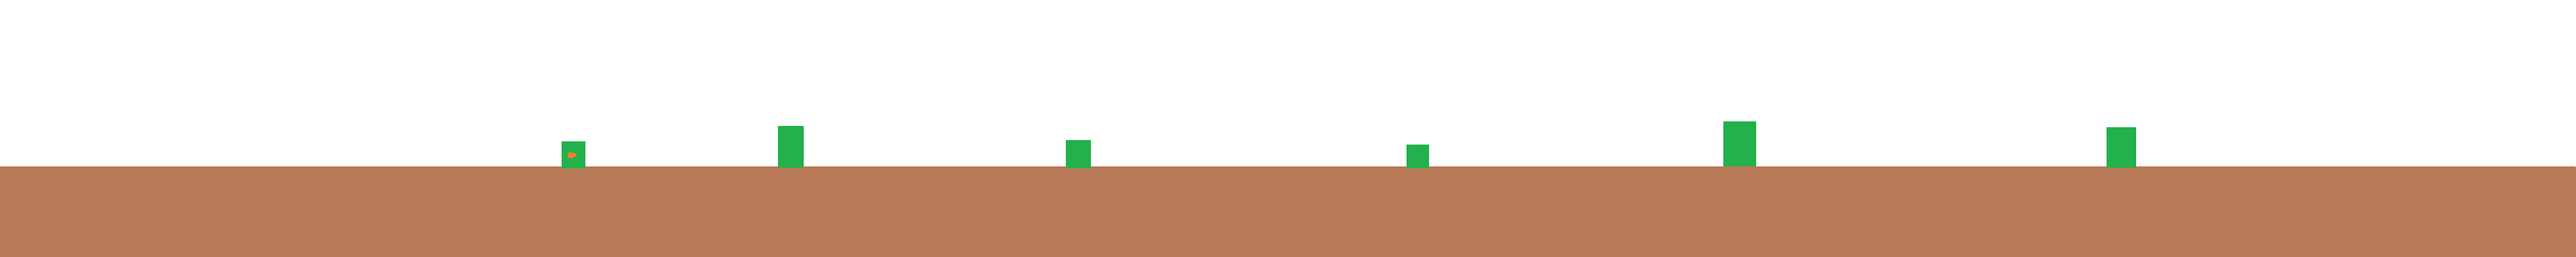
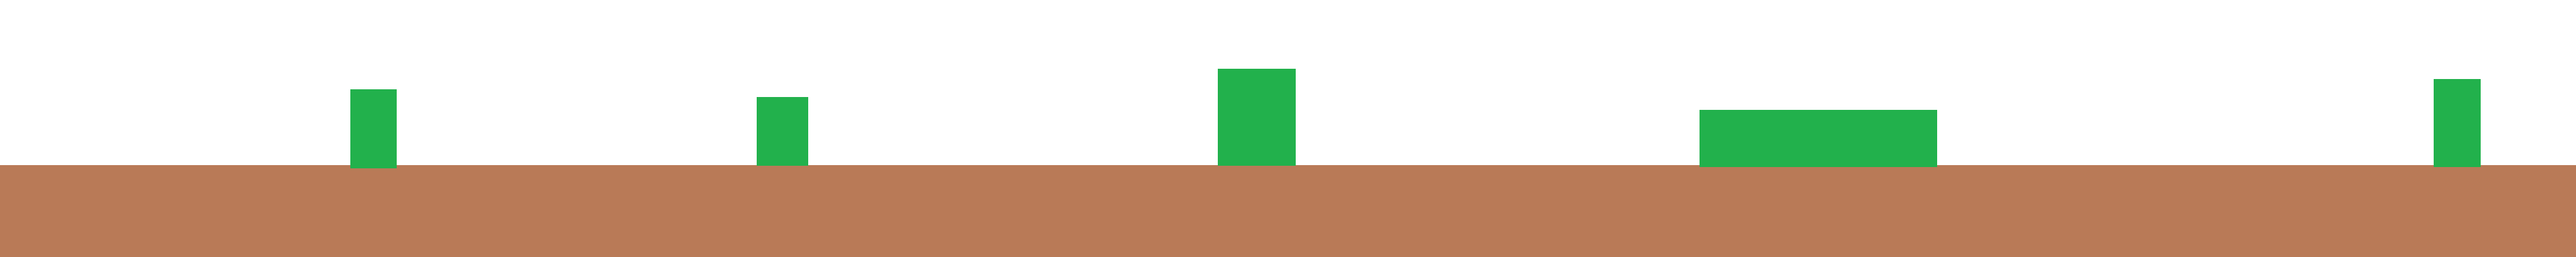
Add files via upload

Changed region(s): [[0.0, 0.27, 1.0, 0.66]]

diff --git a/DAVID.py b/DAVID.py
@@ -10,9 +10,21 @@ background3 = pygame.image.load('bg3.png')
 background4 = pygame.image.load('bg4.png')
 background5 = pygame.image.load('bg5.png')
 backgroundx = pygame.image.load('bgx.png')
+e0= pygame.image.load('energy_0.png')
+e1= pygame.image.load('energy_1.png')
+e2= pygame.image.load('energy_2.png')
+e3= pygame.image.load('energy_3.png')
+e4= pygame.image.load('energy_4.png')
+e5= pygame.image.load('energy_5.png')
+e6= pygame.image.load('energy_6.png')
+e7= pygame.image.load('energy_7.png')
+e8= pygame.image.load('energy_8.png')
+e9= pygame.image.load('energy_9.png')
+e10= pygame.image.load('energy_10.png')
 sky1 = pygame.image.load('sk1.png')
 sky2 = pygame.image.load('sk2.png')
 gameover = pygame.image.load('gameover.png')
+sheld= pygame.image.load('sheld.png')
 
 
 W, H = 600, 400
@@ -28,9 +40,15 @@ screen = pygame.display.set_mode((W,H))
 
 skset=[sky1,sky2]
 bgset=[background1,background2,background3,background4,background5]
+#bgset=[background1,background1,background1,background1,background1]
 d = [[872,220,909],[1207,196,1248],[1655,218,1693],[2184,225,2218],[2676,189,2727],[3271,198,3317]]
-dset=[d,d,d,d,d]
-
+d1 = [[872,220,909],[1207,196,1248],[1655,218,1693],[2184,225,2218],[2676,189,2727],[3271,198,3317]]
+d2 = [[150,175,190],[414,221,595],[982,173,1021],[1411,185,1446],[1650,227,1781],[3222,175,3276]]
+d3 = [[546,141,613],[1177,153,1252],[1983,109,2009],[2741,177,3005],[3781,125,3850]]
+d4 = [[270,151,365],[666,178,908],[1706,226,2026],[3169,117,3301]]
+dset=[d1,d2,d3,d4]
+#dset=[d1,d1,d1,d1]
+e=[e0,e1,e2,e3,e4,e5,e6,e7,e8,e9,e10]
 
 
 class David():
@@ -41,7 +59,7 @@ class David():
         self.isJump = False
         self.jumpCount = 15
 
-    def draw(self,x,op):
+    def draw(self,x,op,fly):
         myFont = pygame.font.SysFont("Times New Roman", 18)
         mytime = myFont.render(str(pygame.time.get_ticks()/1000)+'s',1,(0,0,0))
         screen.blit(mytime,(x+20,int(self.y)+20))
@@ -49,6 +67,8 @@ class David():
             screen.blit(dino1, (x,int(self.y)))
         else:
             screen.blit(dino2, (x,int(self.y)))
+        if fly:
+            screen.blit(sheld, (x-20,int(self.y)-5)) 
 
     def jump(self):
         if self.isJump:
@@ -72,17 +92,31 @@ class David():
             time.sleep(3)
             pygame.quit()
             sys.exit()
+    def  check_test(self,x,z,d,bg_x):#check hit position
+        if ( (x>=d[z][0]) and (self.y>=d[z][1]) and (x<=d[z][2])):
+            if d==d1:
+                print('bg1',z)
+            if d==d2:
+                print('bg2',z)
+            if d==d3:
+                print('bg3',z)
+            if d==d4:
+                print('bg4',z)
+            
+        
             
 image_width = 20  #if you change the image , you need to fill new image width       
 pos_x = 50
 pos_y = 259-image_width
 david = David(pos_x, pos_y)
-next_bg=random.randint(0,4)
+next_bg=random.randint(0,len(dset)-1)
 next_sk=random.randint(0,1)
 ground_speed = 5
 sky_speed = 1
 z=0
 op = 1 # op change image of dino
+energy=0
+fly=0
 while True:
     
     for event in pygame.event.get():
@@ -93,6 +127,11 @@ while True:
                 sys.exit()
             if event.key == pygame.K_SPACE:
                 david.isJump = True
+            if event.key == pygame.K_a:
+                fly=1
+        elif event.type == pygame.KEYUP:
+            if event.key == pygame.K_a:
+                fly=0
 
     clock.tick(FPS)
     pressed_keys = pygame.key.get_pressed()
@@ -101,12 +140,18 @@ while True:
     screen.blit(sky1,(sk_x,0))
     screen.blit(skset[next_sk],(sk_x+4000,0))
 
-    if(z<5 and d[z][2]<pos_x-bg_x):
+    if(z<len(d)-1 and d[z][2]<pos_x-bg_x):
         z = z+1
+    if fly and energy>250:
+        energy=energy-5;
+        
+        
+    else:
+        david.check((pos_x-bg_x),z,d,bg_x)#change check_test if debug
+        if energy<1000:
+            energy=energy+1
     
-    david.check((pos_x-bg_x),z,d,bg_x)
-
-    david.draw(pos_x,op)
+    david.draw(pos_x,op,fly and energy>250)
     david.jump()
     bg_x = bg_x-ground_speed
     sk_x = sk_x-sky_speed
@@ -114,20 +159,21 @@ while True:
     else: op=1
     
     if bg_x<=-4000:
-        ground_speed = min(ground_speed+1,8)
+        ground_speed = min(ground_speed,8)
         bg_x=bg_x+4000
         z=0
-        if next_bg==1:
+        if next_bg==0:
             background = pygame.image.load('bg.png')
-        elif next_bg==2:
+        elif next_bg==1:
             background = pygame.image.load('bg2.png')
-        elif next_bg==3:
+        elif next_bg==2:
             background = pygame.image.load('bg3.png')
-        elif next_bg==4:
+        elif next_bg==3:
             background = pygame.image.load('bg4.png')
-        elif next_bg==5:
+        elif next_bg==4:
             background = pygame.image.load('bg5.png')
-        next_bg=random.randint(0,4)
+        next_bg=random.randint(0,len(dset)-1)
+        #next_bg=4
         d=dset[next_bg][:]
     if sk_x <= -4000:
         sky_speed= min(sky_speed+1,5)
@@ -137,5 +183,5 @@ while True:
         elif next_sk==1:
             sky1 = pygame.image.load('sk2.png')
         next_sk = random.randint(0,1)
-            
+    screen.blit(e[int(energy/100)],(300,300))
     pygame.display.update()

diff --git a/README.md b/README.md
@@ -1,44 +1,2 @@
 # david
 感測器元件與嵌入式系統應用
-
-## 專題內容
-> 遊戲是編程的集大成者
-
-如上所述，我們希望透過遊戲來綜合這學期所學的相關知識，
-因此，這是一個娛樂性的專題。
-
-**我們希望復刻並強化GOOGLE小恐龍
-以小恐龍融合腳色扮演概念來呈現
-並使用python的GPIO感測器模組與pygame實作遊戲細節**
-
-## 感測器
-1. 需求 : 測距感測器
-   目的 : 使用手指觸發測距感測器，控制跳躍
-2. 需求 : 聲音感測器
-   目的 : 輸出全靠吼，當能量條集滿可以大吼讓小恐龍放大招
-   
-## 已完成部分的實作(python)
-```python
-地圖物件
-1. 導入預先手繪的圖片(12張)
-2. 設定視窗大小與介面
-3. 計時器定時
-4. 彙整分類地圖障礙物屬性
-
-恐龍物件
-class David():
-    def __init__(self, x, y)   初始化恐龍位置與基礎數值
-    def draw(self,x,op)        繪製現時分數與恐龍本體動畫
-    def jump(self)             跳躍動畫(符合物理原理)
-    def check(self,x,z,d,bg_x) 判斷撞擊障礙物與失敗條件
-    
-遊戲迴圈
-1. 接收指令觸發行動(quit,jump)
-2. 設定每秒幀數
-3. 連續隨機地圖生成
-4. 障礙物位置存取
-5. 恐龍移動與碰撞
-6. 整合恐龍物件自定義函數
-7. 提升速度
-8. 更新地圖存取
-```
